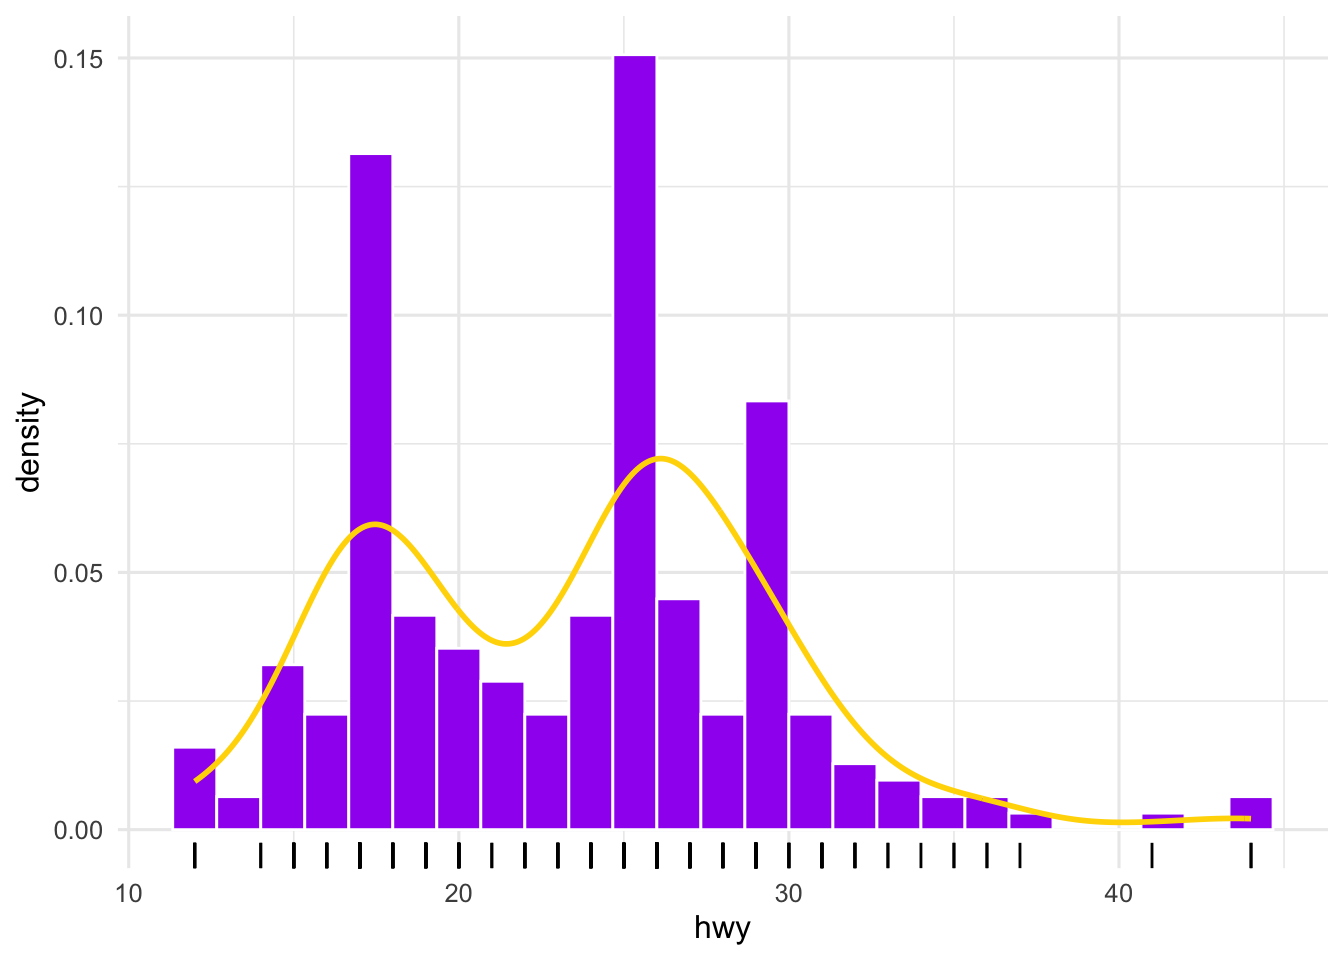
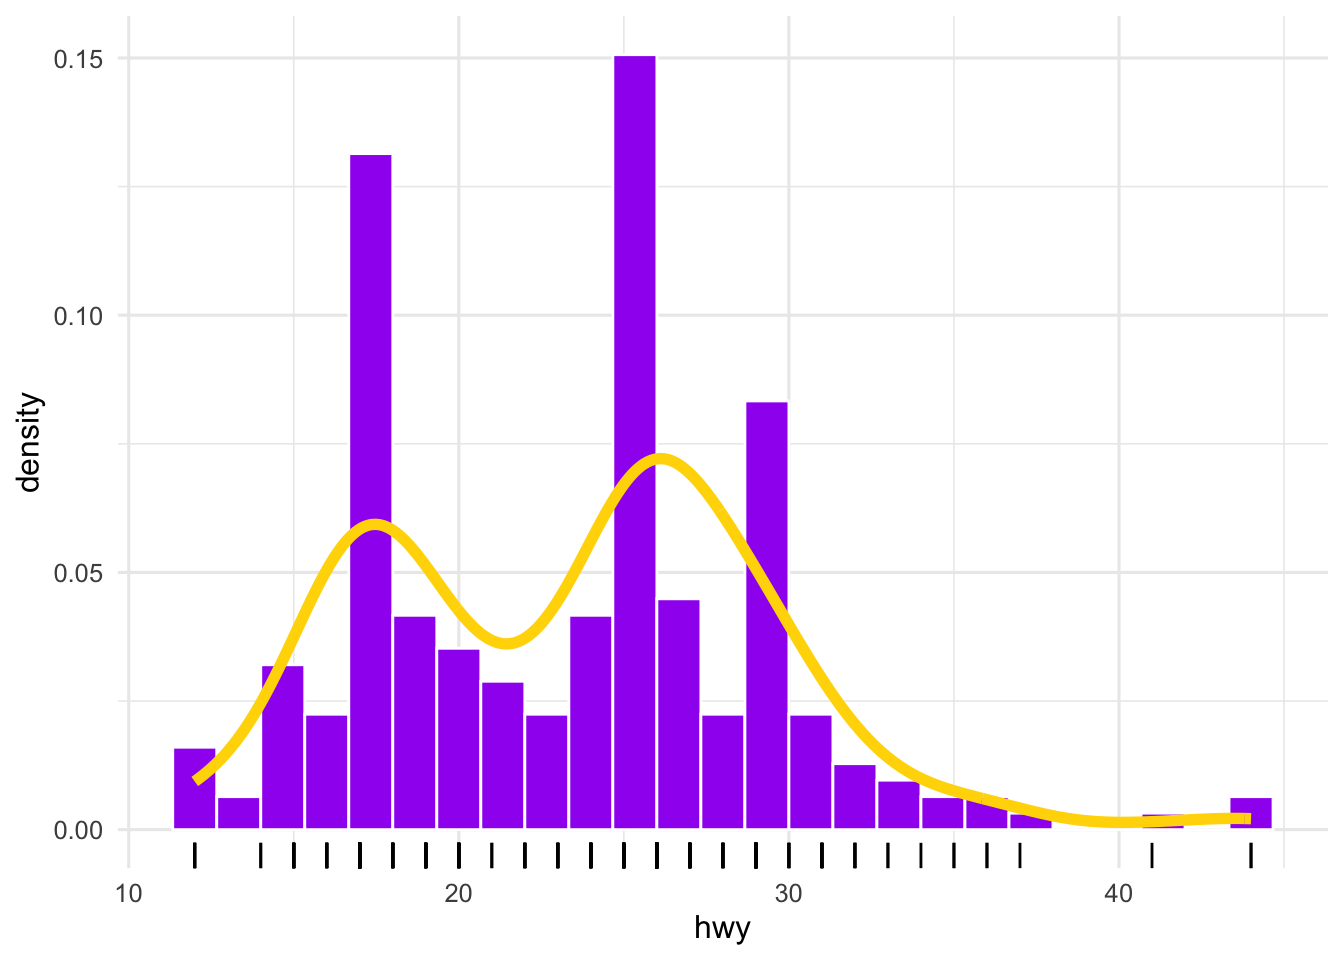
update lesson04

diff --git a/_site/lesson04/index.html b/_site/lesson04/index.html
@@ -970,7 +970,7 @@ div.csl-indent {
 <div class="cell">
 <div class="sourceCode cell-code" id="cb15"><pre class="sourceCode r code-with-copy"><code class="sourceCode r"><span id="cb15-1"><a href="#cb15-1" aria-hidden="true" tabindex="-1"></a>mpg <span class="sc">%&gt;%</span></span>
 <span id="cb15-2"><a href="#cb15-2" aria-hidden="true" tabindex="-1"></a>  <span class="fu">ggplot</span>(<span class="fu">aes</span>(<span class="at">x=</span>hwy)) <span class="sc">+</span> </span>
-<span id="cb15-3"><a href="#cb15-3" aria-hidden="true" tabindex="-1"></a>  <span class="fu">geom_density</span>(<span class="at">linewidth=</span><span class="dv">1</span>)</span></code><button title="Copy to Clipboard" class="code-copy-button"><i class="bi"></i></button></pre></div>
+<span id="cb15-3"><a href="#cb15-3" aria-hidden="true" tabindex="-1"></a>  <span class="fu">geom_density</span>(<span class="at">linewidth=</span><span class="dv">2</span>)</span></code><button title="Copy to Clipboard" class="code-copy-button"><i class="bi"></i></button></pre></div>
 <div class="cell-output-display">
 <p><img src="index_files/figure-html/unnamed-chunk-19-1.png" class="img-fluid" width="672"></p>
 </div>
@@ -979,7 +979,7 @@ div.csl-indent {
 <div class="cell">
 <div class="sourceCode cell-code" id="cb16"><pre class="sourceCode r code-with-copy"><code class="sourceCode r"><span id="cb16-1"><a href="#cb16-1" aria-hidden="true" tabindex="-1"></a>mpg <span class="sc">%&gt;%</span></span>
 <span id="cb16-2"><a href="#cb16-2" aria-hidden="true" tabindex="-1"></a>  <span class="fu">ggplot</span>(<span class="fu">aes</span>(<span class="at">x=</span>hwy)) <span class="sc">+</span> </span>
-<span id="cb16-3"><a href="#cb16-3" aria-hidden="true" tabindex="-1"></a>  <span class="fu">geom_density</span>(<span class="at">linewidth=</span><span class="dv">1</span>) <span class="sc">+</span> </span>
+<span id="cb16-3"><a href="#cb16-3" aria-hidden="true" tabindex="-1"></a>  <span class="fu">geom_density</span>(<span class="at">linewidth=</span><span class="dv">2</span>) <span class="sc">+</span> </span>
 <span id="cb16-4"><a href="#cb16-4" aria-hidden="true" tabindex="-1"></a>  <span class="fu">geom_rug</span>()</span></code><button title="Copy to Clipboard" class="code-copy-button"><i class="bi"></i></button></pre></div>
 <div class="cell-output-display">
 <p><img src="index_files/figure-html/unnamed-chunk-20-1.png" class="img-fluid" width="672"></p>
@@ -990,7 +990,7 @@ div.csl-indent {
 <div class="sourceCode cell-code" id="cb17"><pre class="sourceCode r code-with-copy"><code class="sourceCode r"><span id="cb17-1"><a href="#cb17-1" aria-hidden="true" tabindex="-1"></a>mpg <span class="sc">%&gt;%</span></span>
 <span id="cb17-2"><a href="#cb17-2" aria-hidden="true" tabindex="-1"></a>  <span class="fu">ggplot</span>(<span class="fu">aes</span>(<span class="at">x=</span>hwy)) <span class="sc">+</span> </span>
 <span id="cb17-3"><a href="#cb17-3" aria-hidden="true" tabindex="-1"></a>  <span class="fu">geom_histogram</span>(<span class="fu">aes</span>(<span class="at">y =</span> ..density..),<span class="at">fill=</span><span class="st">"purple"</span>,<span class="at">color=</span><span class="st">"white"</span>,<span class="at">bins =</span> <span class="dv">25</span>) <span class="sc">+</span> </span>
-<span id="cb17-4"><a href="#cb17-4" aria-hidden="true" tabindex="-1"></a>  <span class="fu">geom_density</span>(<span class="at">linewidth=</span><span class="dv">1</span>,<span class="at">color=</span><span class="st">"gold"</span>) <span class="sc">+</span> </span>
+<span id="cb17-4"><a href="#cb17-4" aria-hidden="true" tabindex="-1"></a>  <span class="fu">geom_density</span>(<span class="at">linewidth=</span><span class="dv">2</span>,<span class="at">color=</span><span class="st">"gold"</span>) <span class="sc">+</span> </span>
 <span id="cb17-5"><a href="#cb17-5" aria-hidden="true" tabindex="-1"></a>  <span class="fu">geom_rug</span>()</span></code><button title="Copy to Clipboard" class="code-copy-button"><i class="bi"></i></button></pre></div>
 <div class="cell-output cell-output-stderr">
 <pre><code>Warning: The dot-dot notation (`..density..`) was deprecated in ggplot2 3.4.0.
